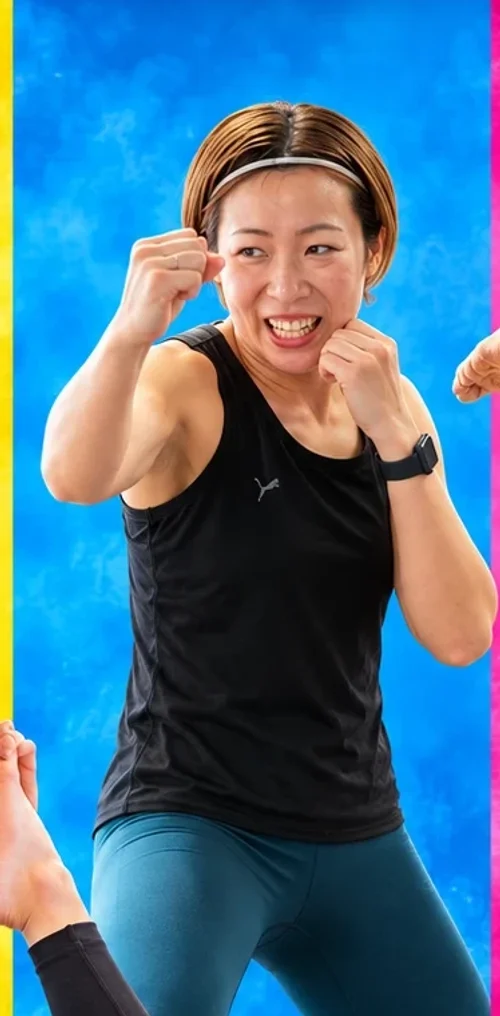
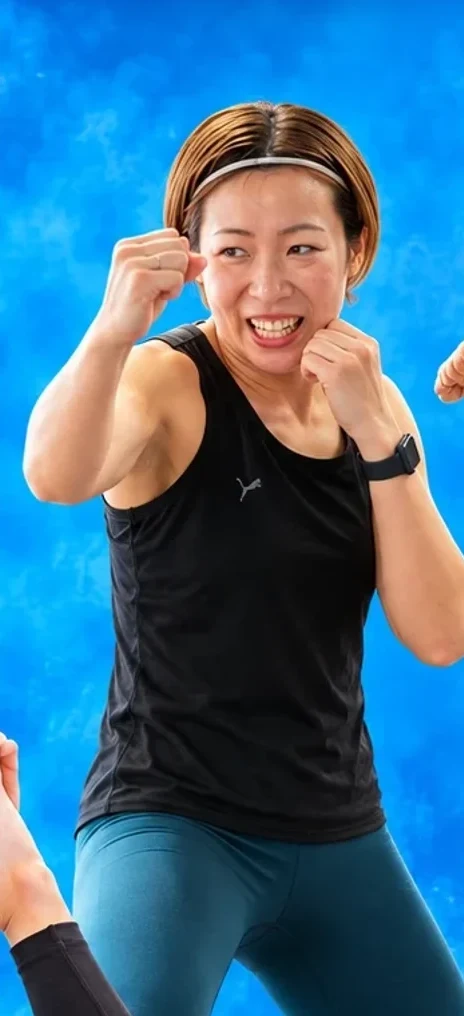
ジムについてページの「こんな気持ち」カードに写真を追加し、ボクササイズ写真の端の色帯を除去

diff --git a/src/pages/About.tsx b/src/pages/About.tsx
@@ -275,10 +275,10 @@ const features = [
 ];
 
 const worries = [
-  { title: "運動が続かなくて…", text: "動きに変化があるサーキットとミット打ちで、飽きずに通えます。『楽しい』が続ける理由になります。" },
-  { title: "格闘技って怖そう…", text: "ミットやサンドバッグを打つ爽快なトレーニングが中心です。グローブは無料でお貸しします。" },
-  { title: "ひとりで行くのは心細い…", text: "おひとりで通う方がたくさんいます。会員さん同士の雰囲気が良く、初めてでも馴染みやすいジムです。" },
-  { title: "体力に自信がない…", text: "一人ひとりのレベルに合わせて動きを調整できます。無理のない強度から、少しずつステップアップ。" },
+  { image: "/images/ig-reel-rope-blue.webp", position: "center 18%", alt: "笑顔でバトルロープに取り組む女性", title: "運動が続かなくて…", text: "動きに変化があるサーキットとミット打ちで、飽きずに通えます。『楽しい』が続ける理由になります。" },
+  { image: "/images/gym-kickboxing-woman.webp", position: "center", alt: "グローブをつけてミット打ちをする女性", title: "格闘技って怖そう…", text: "ミットやサンドバッグを打つ爽快なトレーニングが中心です。グローブは無料でお貸しします。" },
+  { image: "/images/ig-reel-box-puma.webp", position: "center 20%", alt: "笑顔で構える会員さん", title: "ひとりで行くのは心細い…", text: "おひとりで通う方がたくさんいます。会員さん同士の雰囲気が良く、初めてでも馴染みやすいジムです。" },
+  { image: "/images/ig-reel-yoga-stretch.webp", position: "center 28%", alt: "ゆったりとストレッチをする女性", title: "体力に自信がない…", text: "一人ひとりのレベルに合わせて動きを調整できます。無理のない強度から、少しずつステップアップ。" },
 ];
 
 const conceptCards = [
@@ -401,9 +401,18 @@ export default function About() {
           </motion.div>
           <motion.div initial="hidden" whileInView="visible" viewport={{ once: true }} variants={staggerContainer} className="grid grid-cols-1 sm:grid-cols-2 gap-6">
             {worries.map((worry) => (
-              <motion.div key={worry.title} variants={fadeInUp} className="bg-white rounded-md p-6 border border-gray-100">
-                <h3 className="relative bg-[#FAF5EE] rounded-md p-4 mb-6 font-bold text-[#4D5058] after:absolute after:left-6 after:-bottom-2 after:w-4 after:h-4 after:rotate-45 after:bg-[#FAF5EE]">{t(worry.title)}</h3>
-                <p className="text-[#4D5058]/70 text-sm sm:text-base leading-relaxed">{t(worry.text)}</p>
+              <motion.div key={worry.title} variants={fadeInUp} className="bg-white rounded-md overflow-hidden border border-gray-100 shadow-sm">
+                <img
+                  src={worry.image}
+                  alt={t(worry.alt)}
+                  loading="lazy"
+                  className="w-full aspect-[4/3] object-cover"
+                  style={{ objectPosition: worry.position }}
+                />
+                <div className="p-6">
+                  <h3 className="relative bg-[#FAF5EE] rounded-md p-4 mb-6 font-bold text-[#4D5058] after:absolute after:left-6 after:-bottom-2 after:w-4 after:h-4 after:rotate-45 after:bg-[#FAF5EE]">{t(worry.title)}</h3>
+                  <p className="text-[#4D5058]/70 text-sm sm:text-base leading-relaxed">{t(worry.text)}</p>
+                </div>
               </motion.div>
             ))}
           </motion.div>
